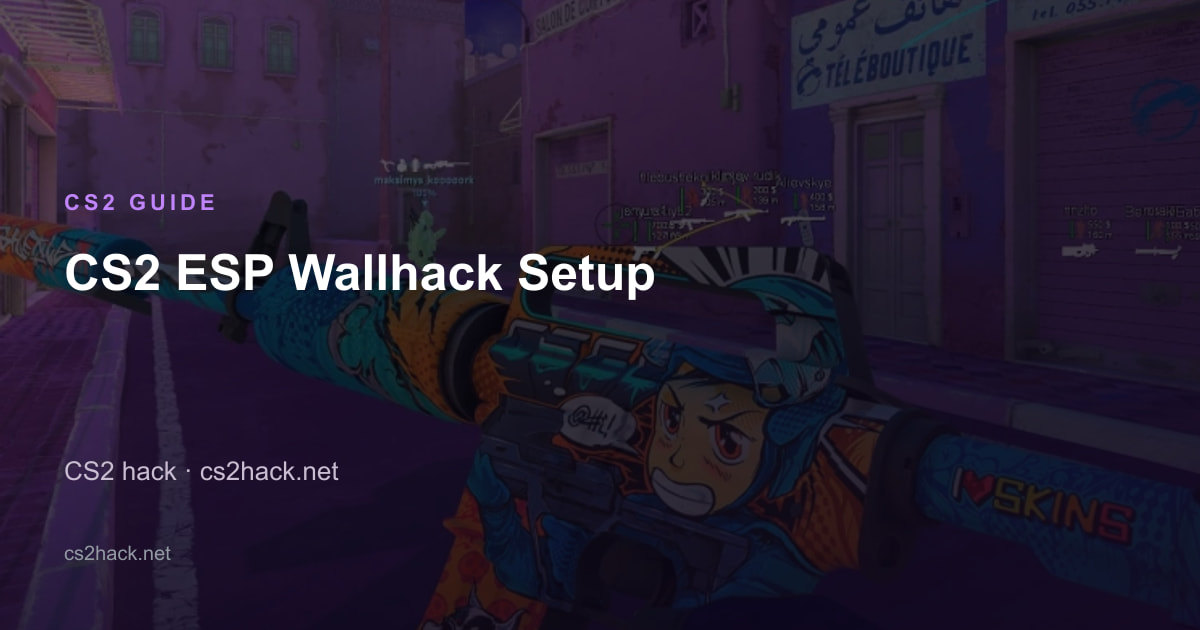
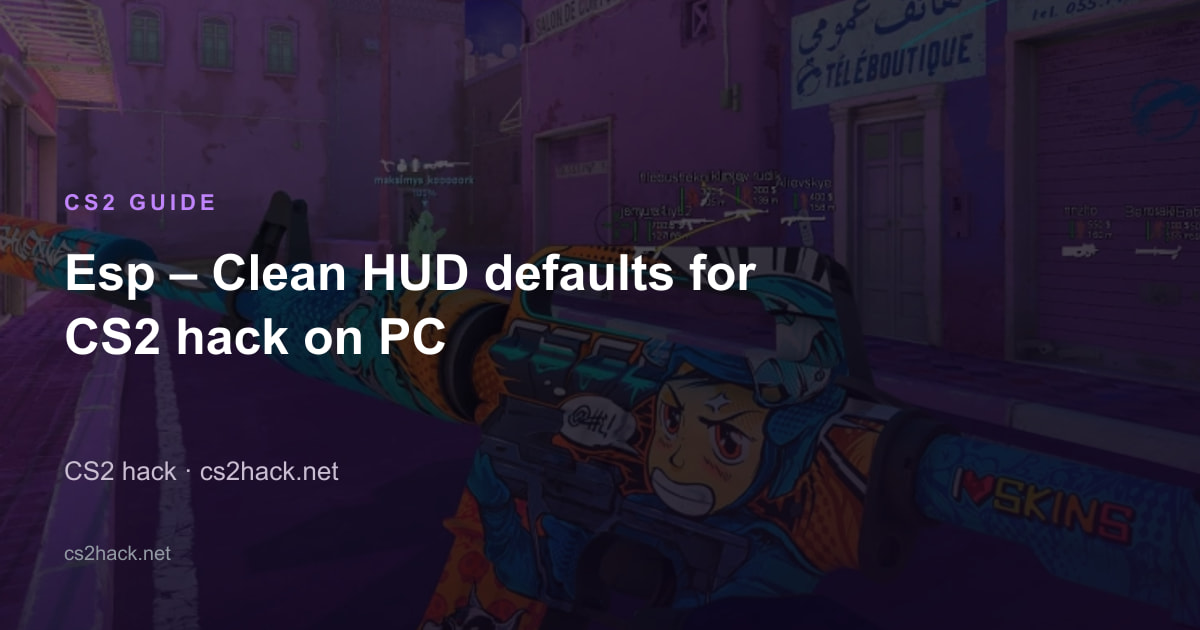
Align H1s with titles, dedupe nav anchors, and add page images for SEO audit.

Changed region(s): [[0.0308, 0.3921, 0.6475, 0.573]]

diff --git a/src/data/blogs.ts b/src/data/blogs.ts
@@ -25,7 +25,7 @@ export type BlogPost = {
 export const BLOGS: BlogPost[] = [
   {
     slug: 'features-list',
-    title: 'CS2 hack Features Checklist — Aimbot, Radar',
+    title: 'CS2 hack Features — silent aim, player ESP, bomb and utility — Aimbot, Radar',
     excerpt:
       'Checklist of every CS2 hack module on cs2hack.net — silent aim, player ESP, bomb and utility ESP, wallhack, radar hack and spoofer — before you open checkout from $35.',
     metaTitle: 'Features – net — silent aim, player ESP, bomb and utility',
@@ -76,7 +76,7 @@ export const BLOGS: BlogPost[] = [
   },
   {
     slug: 'aimbot-settings',
-    title: 'CS2 Aimbot Settings for Silent Aim & Smoothing',
+    title: 'CS2 Aimbot Settings — Silent Aim, Smoothing & Visible-Check',
     excerpt:
       'Tune CS2 Aimbot FOV, smoothing, hitbox and silent aim so player tracking stays effective without looking robotic to spectating admins.',
     metaTitle: 'Aimbot Settings – smoothing and visible-check so your CS2',
@@ -125,7 +125,7 @@ export const BLOGS: BlogPost[] = [
     title: 'CS2 ESP and Wallhack Setup — Player Boxes & Utility',
     excerpt:
       'Configure CS2 ESP and wallhack for player boxes, utility tracking and utility highlighting without flooding your HUD.',
-    metaTitle: 'CS2 ESP Wallhack Setup | Player Boxes & Utility',
+    metaTitle: 'Esp – Clean HUD defaults for CS2 hack on PC | cs2hack',
     metaDescription:
       'CS2 ESP and wallhack setup: player boxes, skeletons, distance, health, bomb and utility ESP through smokes. Clean HUD defaults for CS2 hack on PC.',
     searchTerms: 'cs2 esp wallhack cs2 hack player boxes utility esp bomb esp cs2 cheat',
@@ -166,7 +166,7 @@ export const BLOGS: BlogPost[] = [
   },
   {
     slug: 'radar-hack-guide',
-    title: 'CS2 Radar Hack Screen Overlay for Off-Screen Players',
+    title: 'CS2 Radar Hack Guide — Screen Overlay for Off-Screen Players',
     excerpt:
       'Use the CS2 radar hack 2D overlay to track off-screen players, avoid third parties and approach bombsite safer.',
     metaTitle: 'CS2 Radar Hack Guide | 2D Overlay for Off-Screen Players',
@@ -202,7 +202,7 @@ export const BLOGS: BlogPost[] = [
   },
   {
     slug: 'hotkeys',
-    title: 'CS2 Hack Hotkeys — Menu, Aimbot Toggles After Load',
+    title: 'Hotkeys — after a clean load on cs2hack — Menu, Aimbot Toggles',
     excerpt:
       'Menu and toggle hotkeys for CS2 hack after a clean load — Aimbot, ESP, bomb and utility ESP, radar and panic binds.',
     metaTitle: 'Hotkeys – After a clean load Buy CS2 Hack on cs2hack',
@@ -238,7 +238,7 @@ export const BLOGS: BlogPost[] = [
   },
   {
     slug: 'complete-setup',
-    title: 'Complete CS2 Hack Setup Guide — Loader Steps',
+    title: 'Complete CS2 Hack Setup — if status is Updating after VAC patch, wait — Loader Steps',
     excerpt:
       'Step-by-step CS2 hack setup: buy from $35, antivirus exclusions, load order, enable ESP and Aimbot, save configs, re-check VAC.',
     metaTitle: 'Setup – If status is Updating after a VAC patch, wait',
@@ -282,7 +282,7 @@ export const BLOGS: BlogPost[] = [
   },
   {
     slug: 'windows-setup',
-    title: 'CS2 Hack on Windows 10 and 11 — Setup Guide',
+    title: 'Windows — launch with correct permissions for a clean CS2 Hack setup guide',
     excerpt:
       'Windows 10/11 prep for CS2 hack — overlays, Defender exclusions, admin rights and a clean first launch against VAC.',
     metaTitle: 'Windows – launch with correct permissions and run a clean',
@@ -317,7 +317,7 @@ export const BLOGS: BlogPost[] = [
   },
   {
     slug: 'disable-antivirus',
-    title: 'Antivirus Exclusions for CS2 Hack — Defender',
+    title: 'Antivirus — then continue setup when status is clear — CS2 Hack Defender exclusions',
     excerpt:
       'Allowlist CS2 hack in Windows Defender and common antivirus so the loader is not quarantined before first run.',
     metaTitle: 'Antivirus – then continue setup when status is clear',
@@ -352,7 +352,7 @@ export const BLOGS: BlogPost[] = [
   },
   {
     slug: 'stream-proof-setup',
-    title: 'Stream-Proof CS2 Hack for OBS — Safe Overlay',
+    title: 'Stream-Proof CS2 Hack — wallhack, Aimbot overlays off recordings — Safe OBS overlay',
     excerpt:
       'Hide CS2 ESP, utility highlighting and Aimbot overlays from OBS and capture tools with stream-proof mode.',
     metaTitle: 'Stream Proof – wallhack and Aimbot overlays off recordings',
@@ -387,7 +387,7 @@ export const BLOGS: BlogPost[] = [
   },
     {
     slug: 'vac-status',
-    title: 'CS2 VAC Status: Clear to Load vs Updating',
+    title: 'CS2 VAC Status — admin bans differ from anti-cheat — Clear to Load vs Updating',
     excerpt:
       'What clear-to-load and Updating mean for CS2 hack after VAC and game patches — and why admin bans are a separate risk.',
     metaTitle: 'Status – and how admin bans differ from anti-cheat',
@@ -428,10 +428,10 @@ export const BLOGS: BlogPost[] = [
   },
   {
     slug: 'undetected-status',
-    title: 'VAC Status Checklist Before You Buy CS2 Hack or Load',
+    title: 'Checklist — confirm clear-to-load before checkout — VAC Status for CS2 Hack',
     excerpt:
       'Short VAC status checklist for CS2 hack — confirm clear-to-load before checkout and before every post-patch session.',
-    metaTitle: 'Checklist – confirm clear-to-load before checkout and before',
+    metaTitle: 'Checklist – confirm clear-to-load before checkout and',
     metaDescription:
       'VAC status checklist for CS2 hack: confirm clear-to-load before checkout and before every post-patch session. Wait when Updating; buy from $35 when status.',
     searchTerms: 'cs2 hack status checklist before buy load vac undetected cs2 hack',
@@ -461,7 +461,7 @@ export const BLOGS: BlogPost[] = [
   },
 {
     slug: 'match-play-guide',
-    title: 'Safer CS2 hack Settings for Match Plays Defaults',
+    title: 'Safer CS2 hack Settings for Match Plays — matchmaking defaults',
     excerpt:
       'Safer CS2 hack defaults for competitive matchmaking — ESP-first play, mild silent aim, radar awareness and report-conscious habits.',
     metaTitle: 'Match Plays – Safer CS2 hack settings for matchmaking and',
@@ -497,7 +497,7 @@ export const BLOGS: BlogPost[] = [
   },
   {
     slug: 'loader-errors',
-    title: 'Fix CS2 Hack Loader Errors — Inject & Menu',
+    title: 'Fix CS2 Hack Loader Errors — failed inject & menu not opening',
     excerpt:
       'Troubleshoot CS2 hack loader errors — menu not opening, instant close, antivirus quarantine and failed inject.',
     metaTitle: 'Cs2 Hack Loader Errors – failed inject and menu not opening',

diff --git a/src/components/Navbar.tsx b/src/components/Navbar.tsx
@@ -4,13 +4,22 @@ import { LogoMark } from './LogoMark'
 import { CheckoutLink } from './CheckoutLink'
 import { PRODUCT_PATH, SITE_NAME } from '../data/site'
 
-/** Lean nav — Reviews stay in footer. */
+/** Desktop header nav (unique anchors vs mobile drawer + footer). */
 const NAV_LINKS = [
   { label: 'Setup forums', to: '/forums' },
   { label: 'Price & checkout', to: PRODUCT_PATH },
   { label: 'Buyer ratings', to: '/reviews' },
   { label: 'Common questions', to: '/faq' },
   { label: 'Help desk', to: '/support' },
+] as const
+
+/** Same routes as NAV_LINKS — different anchor text so crawlers do not see duplicates. */
+const MOBILE_NAV_LINKS = [
+  { label: 'Forum hub', to: '/forums' },
+  { label: 'Checkout & pricing', to: PRODUCT_PATH },
+  { label: 'Review scores', to: '/reviews' },
+  { label: 'FAQ hub', to: '/faq' },
+  { label: 'Contact support', to: '/support' },
 ] as const
 
 type NavbarProps = {
@@ -94,9 +103,9 @@ export function Navbar({ onVideo: _onVideo = false }: NavbarProps) {
           >
             Site home
           </a>
-          {NAV_LINKS.map((link, index) => (
+          {MOBILE_NAV_LINKS.map((link, index) => (
             <a
-              key={link.label}
+              key={link.to}
               href={link.to}
               onClick={() => setMenuOpen(false)}
               className="rounded-xl px-4 py-3 text-base font-medium text-z-ink/80 transition-all hover:bg-z-accent/15 hover:text-z-ink"

diff --git a/src/views/SupportPage.tsx b/src/views/SupportPage.tsx
@@ -5,6 +5,7 @@ import { CheckoutLink } from '../components/CheckoutLink'
 import { PRODUCT_PATH, SITE_NAME } from '../data/site'
 import { SUPPORT_FAQS, SUPPORT_INTRO, SUPPORT_TOPICS } from '../data/support'
 import { blogPath } from '../data/blogs'
+import { getPageImage } from '../data/images'
 
 export function SupportPage() {
   return (
@@ -20,8 +21,19 @@ export function SupportPage() {
               {SITE_NAME} · Help
             </p>
             <h1 className="mt-3 text-3xl font-semibold tracking-tight text-white sm:text-5xl">
-              CS2 Hack Support — Menu, Delivery, Setup Help
+              Support — buying and opening the CS2 hack — Menu, Delivery, Setup Help
             </h1>
+            <figure className="mt-8 overflow-hidden rounded-2xl border border-white/10">
+              <img
+                src={getPageImage('support').src}
+                alt={getPageImage('support').alt}
+                width={1200}
+                height={630}
+                loading="lazy"
+                decoding="async"
+                className="aspect-video w-full object-cover"
+              />
+            </figure>
             <p className="mt-4 text-base leading-relaxed text-white/60">{SUPPORT_INTRO}</p>
             <p className="mt-3 text-sm text-white/45">
               Setup guides live in the{' '}

diff --git a/src/views/FaqPage.tsx b/src/views/FaqPage.tsx
@@ -4,6 +4,7 @@ import { SiteFooter } from '../components/SiteFooter'
 import { SITE_FAQS } from '../data/faqs'
 import { CheckoutLink } from '../components/CheckoutLink'
 import { SITE_NAME } from '../data/site'
+import { getPageImage } from '../data/images'
 
 export function FaqPage() {
   return (
@@ -19,8 +20,19 @@ export function FaqPage() {
               {SITE_NAME}
             </p>
             <h1 className="mt-3 text-3xl font-semibold tracking-tight text-white sm:text-5xl">
-              CS2 Hack FAQ — Price, VAC Status & Setup
+              CS2 Hack FAQ — Counter-Strike 2 tool on cs2hack · Price, VAC Status & Setup
             </h1>
+            <figure className="mt-8 overflow-hidden rounded-2xl border border-white/10">
+              <img
+                src={getPageImage('faq').src}
+                alt={getPageImage('faq').alt}
+                width={1200}
+                height={630}
+                loading="lazy"
+                decoding="async"
+                className="aspect-video w-full object-cover"
+              />
+            </figure>
             <p className="mt-4 text-base leading-relaxed text-white/60">
               This faq covers VAC status, ESP, Aimbot, radar hack, servers, buying, loading, support and
               refunds — straight answers before you checkout.

diff --git a/src/data/images.ts b/src/data/images.ts
@@ -22,10 +22,10 @@ export const IMAGE_SEO: Record<
   }
 > = {
   cs2: {
-    alt: 'Counter-Strike 2 radar hack and skeleton ESP showing players through a stone wall',
+    alt: 'Cs2 Hacks – Counter-Strike 2 radar hack and skeleton ESP showing players through a stone wall',
     title: 'CS2 radar and skeleton ESP',
     caption: 'Radar overlay and skeleton ESP on the product page.',
-    heroAlt: 'Counter-Strike 2 radar hack and skeleton ESP showing players through a stone wall',
+    heroAlt: 'Cs2 Hacks – Counter-Strike 2 radar hack and skeleton ESP showing players through a stone wall',
     heroTitle: 'CS2 radar and skeleton ESP',
     heroCaption: 'Radar overlay and skeleton ESP showing players through a wall.',
   },
@@ -76,7 +76,7 @@ export const PAGE_IMAGES: Record<
   product: {
     src: CS2_COVER,
     og: PAGE_OG.product,
-    alt: 'Counter-Strike 2 radar hack and skeleton ESP showing players through a stone wall',
+    alt: 'Cs2 Hacks – Counter-Strike 2 radar hack and skeleton ESP showing players through a stone wall',
     title: 'CS2 radar and skeleton ESP',
     caption: 'Radar overlay and skeleton ESP showing players through a wall.',
   },

diff --git a/src/views/PolicyPage.tsx b/src/views/PolicyPage.tsx
@@ -2,6 +2,7 @@ import { Navbar } from '../components/Navbar'
 import { SiteFooter } from '../components/SiteFooter'
 import { SITE_HOST, SITE_NAME } from '../data/site'
 import type { PolicyPageContent } from '../data/policies'
+import { PAGE_OG } from '../data/og'
 
 type PolicyPageProps = {
   page: PolicyPageContent
@@ -24,6 +25,19 @@ export function PolicyPage({ page }: PolicyPageProps) {
               {page.h1}
             </h1>
             <p className="mt-4 text-base leading-relaxed text-white/55">{page.intro}</p>
+            {page.slug === 'privacy' ? (
+              <figure className="mt-8 overflow-hidden rounded-2xl border border-white/10">
+                <img
+                  src={PAGE_OG.privacy}
+                  alt="CS2 Hack privacy policy — how cs2hack.net handles order and support data"
+                  width={1200}
+                  height={630}
+                  loading="lazy"
+                  decoding="async"
+                  className="aspect-video w-full object-cover"
+                />
+              </figure>
+            ) : null}
           </div>
         </section>
 

diff --git a/src/views/ReviewsPage.tsx b/src/views/ReviewsPage.tsx
@@ -4,6 +4,7 @@ import { SiteFooter } from '../components/SiteFooter'
 import { getReviewsAggregate, REVIEWS } from '../data/reviews'
 import { CheckoutLink } from '../components/CheckoutLink'
 import { PRODUCT_PATH, SITE_NAME } from '../data/site'
+import { getPageImage } from '../data/images'
 
 function Stars({ rating }: { rating: number }) {
   return (
@@ -44,6 +45,17 @@ export function ReviewsPage() {
             <p className="mt-4 text-sm text-white/45" aria-label="Aggregate rating">
               Average {aggregate.ratingValue} / 5 · {aggregate.reviewCount} reviews
             </p>
+            <figure className="mt-8 overflow-hidden rounded-2xl border border-white/10">
+              <img
+                src={getPageImage('reviews').src}
+                alt={getPageImage('reviews').alt}
+                width={1200}
+                height={630}
+                loading="lazy"
+                decoding="async"
+                className="aspect-video w-full object-cover"
+              />
+            </figure>
           </div>
         </section>
 

diff --git a/src/views/GameProductPage.tsx b/src/views/GameProductPage.tsx
@@ -107,7 +107,7 @@ export function GameProductPage({ guideSlug }: GameProductPageProps) {
                 </span>
 
                 <h1 className="mt-3 text-2xl font-semibold leading-tight tracking-tight text-white sm:text-4xl lg:text-[2.75rem] lg:leading-[1.1]">
-                  CS2 Hack Price & Checkout — Aimbot, Radar
+                  Cs2 Hacks — Undetected Counter-Strike 2 checkout · Aimbot, Radar · cs2hack
                 </h1>
                 <p className="mt-3 max-w-xl text-sm leading-relaxed text-white/55 sm:mt-4 sm:text-base">
                   Silent aim Aimbot, player ESP, wallhack and radar for Counter-Strike 2 on PC.

diff --git a/src/data/policies.ts b/src/data/policies.ts
@@ -21,7 +21,7 @@ export const POLICY_PAGES: PolicyPageContent[] = [
     title: 'Privacy – support messages and basic site analytics for CS2',
     description:
       'Privacy: How cs2hack.net handles order details, delivery email, support messages and basic site analytics for CS2 hack. CS2 Hack · Policy · cs2hack.',
-    h1: 'CS2 Hack Privacy Policy',
+    h1: 'Privacy — support messages, basic site analytics for CS2 Hack',
     intro:
       'This privacy page explains what we collect when you browse cs2hack.net, buy a CS2 Hack license, or contact support — and what we do not collect.',
     sections: [

diff --git a/src/views/ForumsPage.tsx b/src/views/ForumsPage.tsx
@@ -43,7 +43,7 @@ export function ForumsPage({ initialQuery = '' }: ForumsPageProps) {
                 Forums · Setup · {SITE_HOST}
               </p>
               <h1 className="text-3xl font-semibold tracking-tight text-white sm:text-5xl">
-                Vac Status: CS2 Hack Guides — Aimbot, ESP, Radar
+                Vac Status: CS2 Hack forum threads — Aimbot, ESP, Radar (13 threads)
               </h1>
               <p className="mt-4 max-w-2xl text-base leading-relaxed text-white/70">
                 VAC status threads for CS2 Hack — features, hotkeys, complete setup, disable antivirus,

diff --git a/src/data/site.ts b/src/data/site.ts
@@ -129,7 +129,7 @@ export const SEO = {
 } as const satisfies Record<string, PageSeo>
 
 export const HOME_HEADINGS = {
-  h1: 'CS2 Hack — Counter-Strike 2 Aimbot, ESP & Wallhack',
+  h1: 'Esp Wallhack — Counter-Strike 2 cheats for Windows 10/11 · Aimbot, ESP & Wallhack',
   h2Features: 'CS2 Aimbot, ESP, wallhack & radar',
   h2Featured: 'CS2 ESP and silent aim Aimbot',
   h2About: 'Check VAC status before you buy a CS2 hack',
